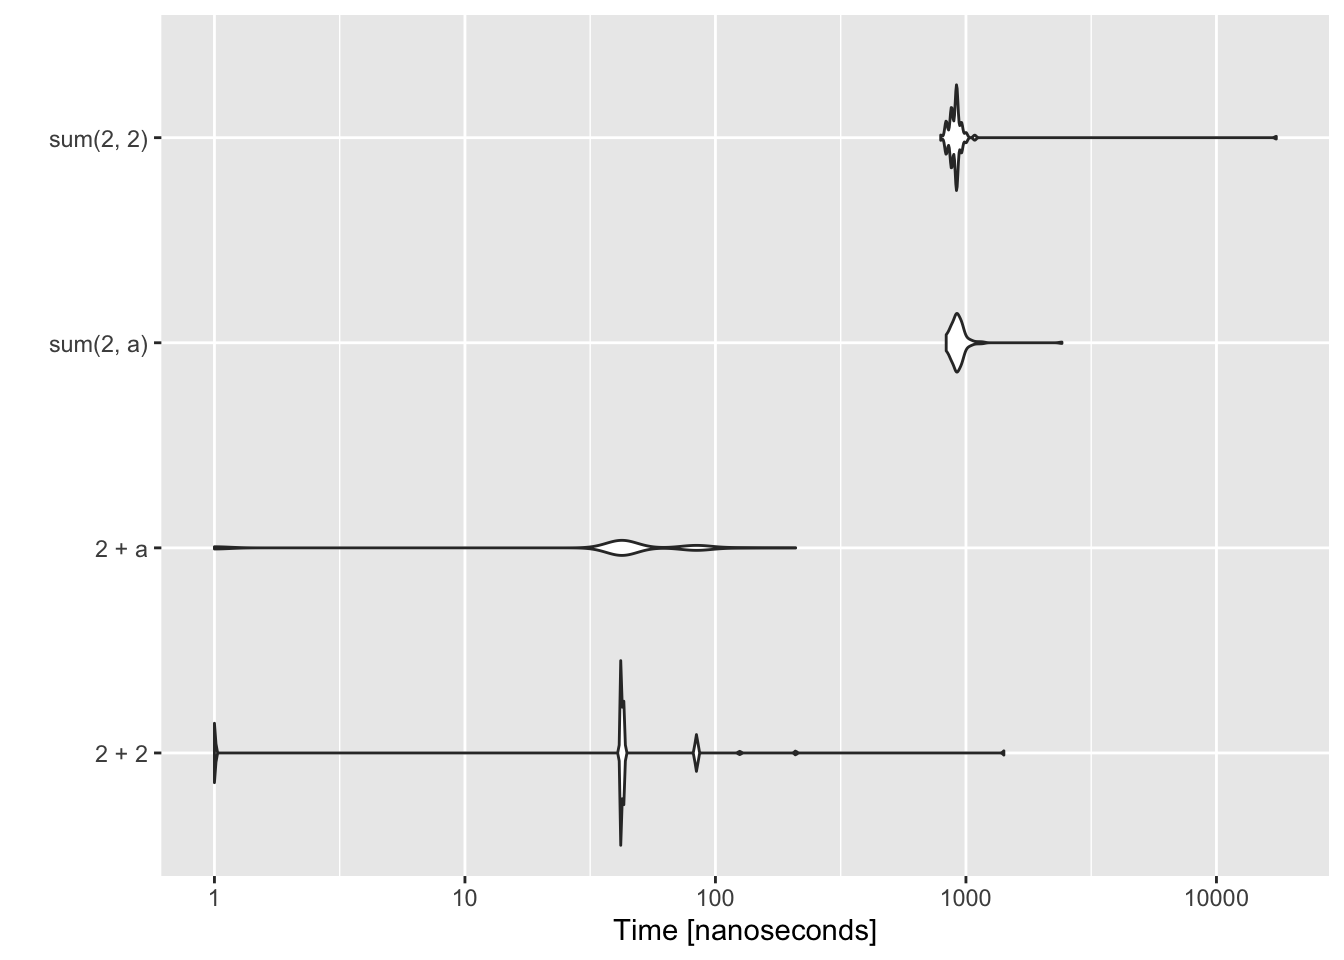
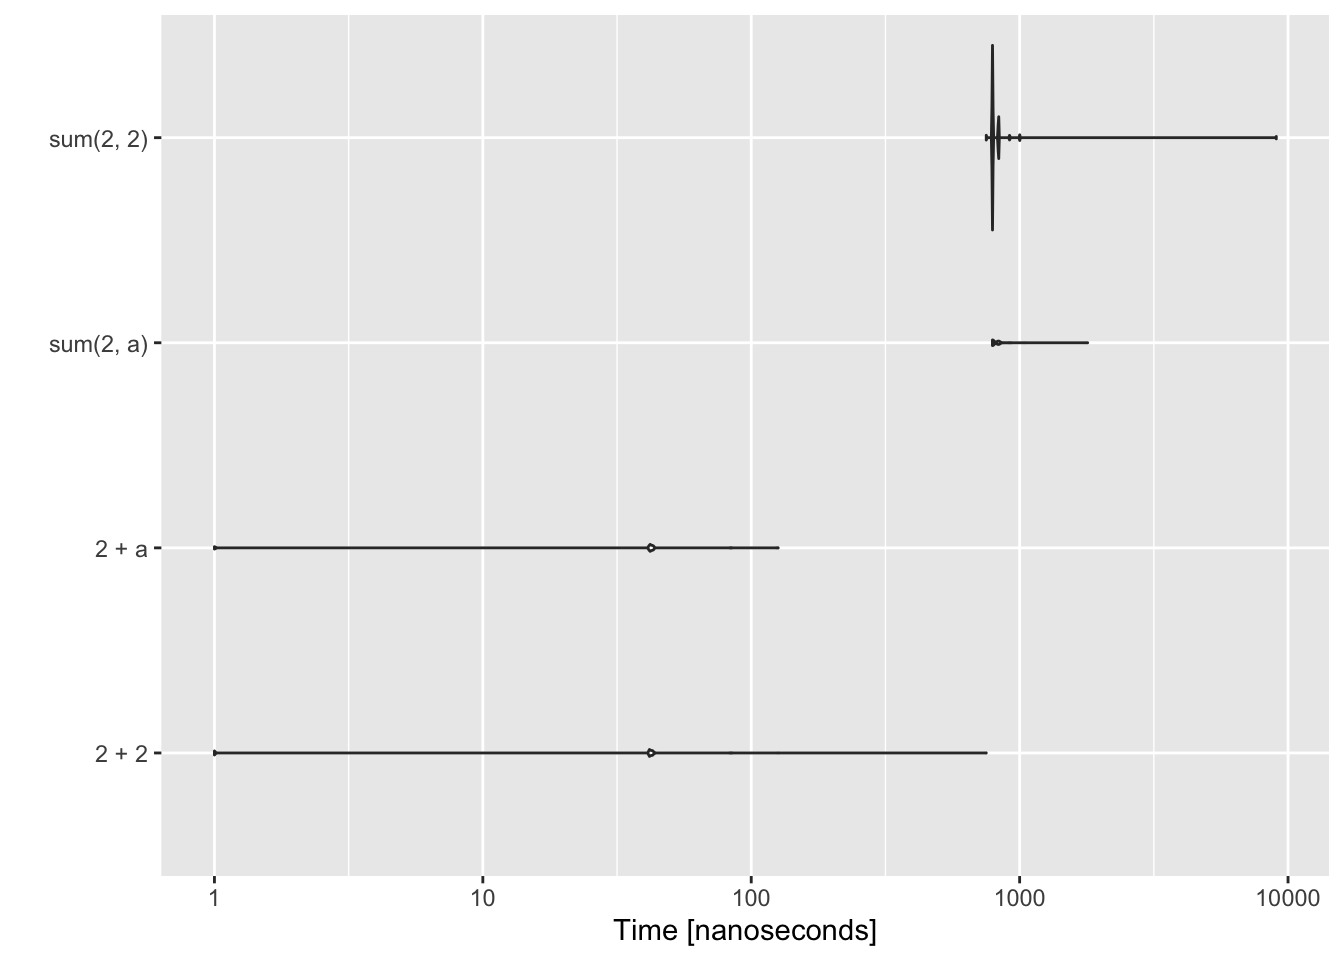
add some links

diff --git a/git-part1.html b/git-part1.html
@@ -468,17 +468,25 @@ Robust
 <p>Not this, i.e. what you would see if you Google “Git”.</p>
 <p><img src="images/git-online.png" width="400" /></p>
 </div>
-<div id="the-3-skills" class="section level1">
-<h1>The 3 Skills</h1>
+<div id="the-key-skills" class="section level1">
+<h1>The Key Skills</h1>
 <p>Repository skills (using GitHub Desktop)</p>
 <ul>
 <li><p>Skill 1: Create a blank repo on GitHub</p></li>
 <li><p>Skill 2: Clone one of your <strong>GitHub</strong> repos onto your computer</p></li>
 <li><p>Skill 0: Open your repository in your editing platform. I am going to use RStudio, but you use whatever you edit in.</p></li>
-<li><p>Skill 3: Commit local changes and push GitHub</p></li>
+<li><p>Skill 3: Commit local changes</p></li>
+<li><p>Skill 4: Push local changes GitHub</p></li>
 <li><p>Skill 1b: How to clone someone else’s GitHub repository</p></li>
 </ul>
-<p><img src="images/git-repo-structure.png" width="200" /></p>
+<p><img src="images/git-repo-structure.png" width="200" /> # Let’s see it done!</p>
+<div id="github-desktop" class="section level2">
+<h2>GitHub Desktop</h2>
+</div>
+<div id="rstudio-cloud" class="section level2">
+<h2>RStudio Cloud</h2>
+<p>See <a href="set-up.html">Set-up</a></p>
+</div>
 <div id="skill-1-create-a-blank-repo-on-github" class="section level2">
 <h2>Skill 1: Create a blank repo on GitHub</h2>
 <ol style="list-style-type: decimal">
@@ -533,10 +541,10 @@ Robust
 </ol>
 </div>
 </div>
-<div id="other-useful-but-not-critical-skills" class="section level1">
-<h1>Other useful but not critical skills</h1>
-<div id="pull-changes-on-github" class="section level2">
-<h2>Pull changes on GitHub</h2>
+<div id="other-skills" class="section level1">
+<h1>Other skills</h1>
+<div id="pull-changes-made-on-github" class="section level2">
+<h2>Pull changes made on GitHub</h2>
 <ol style="list-style-type: decimal">
 <li>Make some changes directly on GitHub</li>
 <li>Click Pull in GitHub Desktop</li>

diff --git a/week8-adv-packages.html b/week8-adv-packages.html
@@ -639,9 +639,9 @@ for(i in 1:10000){ b &lt;- t(a)%*%a }
 Rprof()
 summaryRprof(tmp)$by.self</code></pre>
 <pre><code>##             self.time self.pct total.time total.pct
-## &quot;%*%&quot;            0.48    82.76       0.48     82.76
-## &quot;t.default&quot;      0.08    13.79       0.08     13.79
-## &quot;grep&quot;           0.02     3.45       0.02      3.45</code></pre>
+## &quot;%*%&quot;            0.48    85.71       0.48     85.71
+## &quot;t.default&quot;      0.06    10.71       0.06     10.71
+## &quot;eval&quot;           0.02     3.57       0.56    100.00</code></pre>
 <pre class="r"><code>Rprof(NULL) #stop profiling</code></pre>
 </div>
 <div id="profvis-package" class="section level3">
@@ -657,7 +657,7 @@ res &lt;- microbenchmark(2 + 2, 2 + a, sum(2, a), sum(2, 2))
 ggplot2::autoplot(res)</code></pre>
 <pre><code>## Coordinate system already present. Adding new coordinate system, which will replace the existing one.</code></pre>
 <pre><code>## Warning: Transformation introduced infinite values in continuous y-axis</code></pre>
-<pre><code>## Warning: Removed 19 rows containing non-finite values (stat_ydensity).</code></pre>
+<pre><code>## Warning: Removed 15 rows containing non-finite values (stat_ydensity).</code></pre>
 <p><img src="week8-adv-packages_files/figure-html/unnamed-chunk-5-1.png" width="672" /></p>
 <p>This shows an example of code using <a href="https://www.datacamp.com/community/tutorials/pipe-r-tutorial">piping</a> (<code>%&gt;%</code>) versus without. This is why I do not use piping in my simulations. It is slow though it has gotten much faster in <strong>magrittr</strong> 2.0.</p>
 <pre class="r"><code>library(magrittr)
